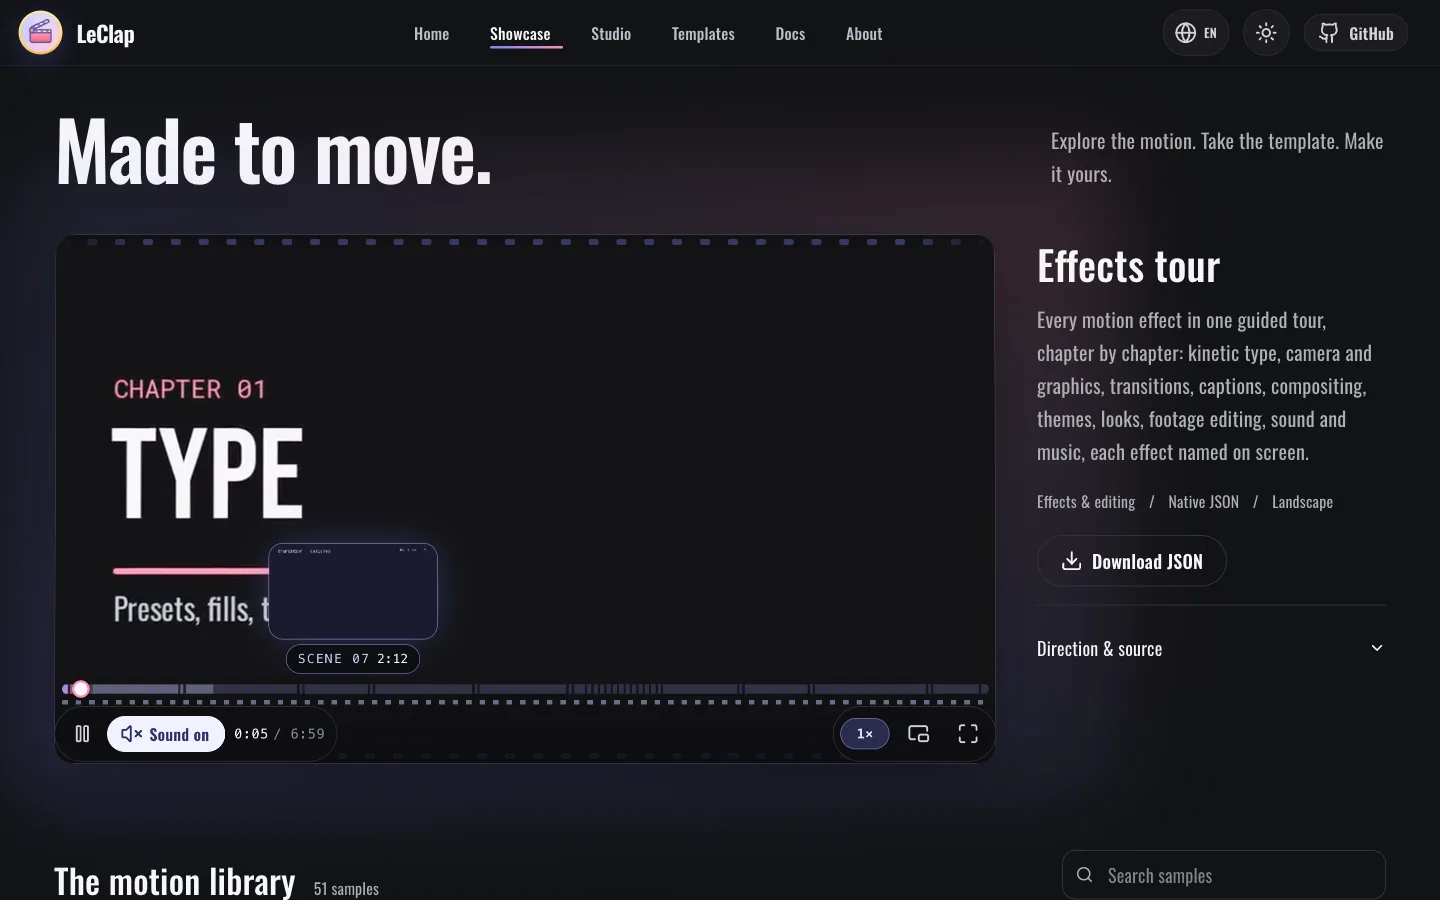
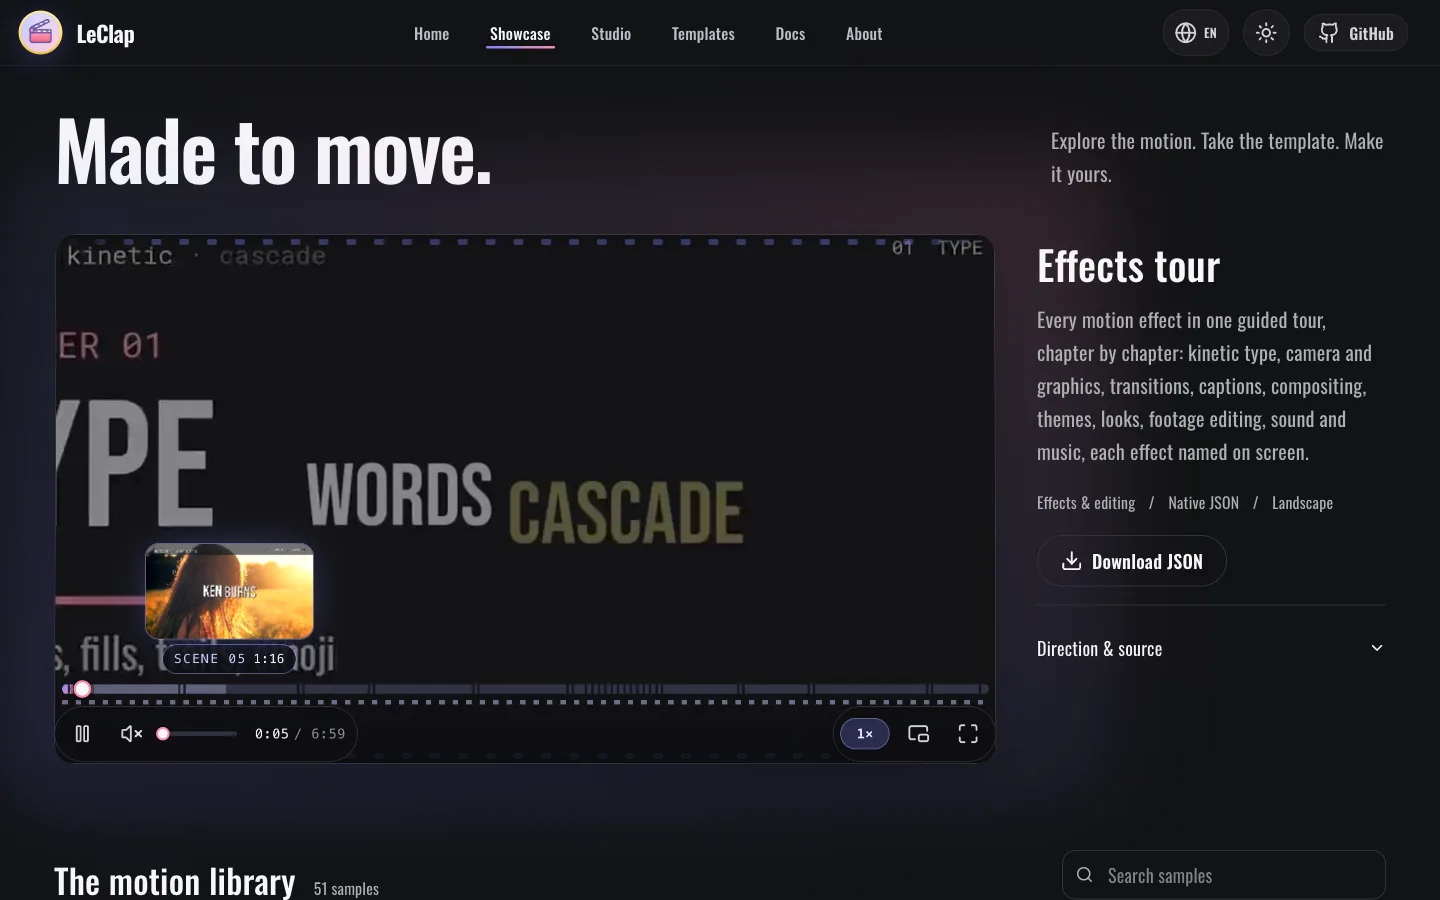
fix(web): show the real frame in the scrub preview and keep the controls under the pointer

Changed region(s): [[0.0312, 0.3733, 0.5312, 0.84], [0.0312, 0.2489, 0.6875, 0.3111], [0.7812, 0.28, 0.8125, 0.3111]]

diff --git a/apps/leclap-web/src/presentation/components/player/use-frame-preview.ts b/apps/leclap-web/src/presentation/components/player/use-frame-preview.ts
@@ -1,36 +1,56 @@
-import { useEffect, useRef, type RefObject } from 'react';
+import { useEffect, useRef, useState, type RefObject } from 'react';
 import { quantizeTime } from './timeline.logic';
 
 /** How finely the preview follows the pointer, in seconds. */
 const STEP = 0.5;
 
-// A muted, offscreen copy of the video to seek for previews; `onSeeked` paints each frame it lands on.
-const createProbe = (source: string, onSeeked: () => void, onError: () => void): HTMLVideoElement => {
+// A source on another origin is fetched with CORS, so the frames it paints never taint the canvas; the site's own
+// files and a local render (blob:) need nothing.
+const crossOrigin = (source: string): boolean => {
+  if (source.startsWith('blob:') || source.startsWith('data:')) return false;
+
+  return new URL(source, globalThis.location.href).origin !== globalThis.location.origin;
+};
+
+interface ProbeEvents {
+  onReady: () => void;
+  onSeeked: () => void;
+  onError: () => void;
+}
+
+// A muted, offscreen copy of the video to seek for previews.
+const createProbe = (source: string, events: ProbeEvents): HTMLVideoElement => {
   const probe = document.createElement('video');
+
+  if (crossOrigin(source)) probe.crossOrigin = 'anonymous';
 
   probe.muted = true;
   probe.playsInline = true;
   probe.preload = 'auto';
+  probe.onloadedmetadata = events.onReady;
+  probe.onseeked = events.onSeeked;
+  probe.onerror = events.onError;
   probe.src = source;
-  probe.onseeked = onSeeked;
-  probe.onerror = onError;
 
   return probe;
 };
 
 /**
  * Frames from the video under the seek bar's pointer, drawn into a small canvas. A second, muted copy of the video
- * (created on the first hover, never in the page) seeks to the hovered time, a half-second step at a time, and each
- * frame it lands on is painted into `canvasRef`. One seek runs at a time; a newer request waits for it and replaces
- * any older one, so a fast sweep never queues dozens. It reads the playing element's own source, so it works for a
- * local render as well as a public video.
+ * (created on the first hover, never in the page) seeks to the hovered time, a half-second step at a time, and once
+ * `seeked` fires the frame it landed on is painted into `canvasRef`. Seeks are throttled: one runs at a time, and a
+ * newer request waits for it and replaces any older one, so a fast scrub never queues dozens; a request made before
+ * the copy has its metadata waits for it (a seek then would never report back). `painted` is the step on the canvas,
+ * so the preview can shimmer until the hovered frame arrives. It reads the playing element's own source, so it
+ * works for a local render as well as a public video.
  */
 export function useFramePreview(videoRef: RefObject<HTMLVideoElement | null>) {
   const canvasRef = useRef<HTMLCanvasElement>(null);
   const probeRef = useRef<HTMLVideoElement | null>(null);
   const busy = useRef(false);
+  const target = useRef(-1);
   const pending = useRef<number | null>(null);
-  const last = useRef(-1);
+  const [painted, setPainted] = useState(-1);
 
   useEffect(
     () => () => {
@@ -52,6 +72,7 @@ export function useFramePreview(videoRef: RefObject<HTMLVideoElement | null>) {
     if (!probe || !canvas || probe.readyState < 2) return;
 
     canvas.getContext('2d')?.drawImage(probe, 0, 0, canvas.width, canvas.height);
+    setPainted(target.current);
   };
 
   const seek = (time: number) => {
@@ -59,32 +80,39 @@ export function useFramePreview(videoRef: RefObject<HTMLVideoElement | null>) {
 
     if (!probe) return;
 
-    if (busy.current) {
+    if (busy.current || probe.readyState < 1) {
       pending.current = time;
 
       return;
     }
 
     busy.current = true;
+    target.current = time;
     probe.currentTime = time;
   };
 
-  const settle = () => {
-    busy.current = false;
-    paint();
-
-    const next = pending.current;
+  const next = () => {
+    const queued = pending.current;
 
     pending.current = null;
 
-    if (next !== null) seek(next);
+    if (queued !== null) seek(queued);
   };
 
   const probeFor = (source: string) => {
     if (probeRef.current?.src === source) return;
 
-    probeRef.current = createProbe(source, settle, () => {
-      busy.current = false;
+    busy.current = false;
+    probeRef.current = createProbe(source, {
+      onReady: next,
+      onSeeked: () => {
+        busy.current = false;
+        paint();
+        next();
+      },
+      onError: () => {
+        busy.current = false;
+      },
     });
   };
 
@@ -92,16 +120,16 @@ export function useFramePreview(videoRef: RefObject<HTMLVideoElement | null>) {
     const source = videoRef.current?.currentSrc;
     const step = quantizeTime(time, STEP);
 
-    if (!source || step === last.current) {
-      paint();
+    if (!source || step === target.current || step === pending.current) return;
 
-      return;
-    }
-
-    last.current = step;
     probeFor(source);
     seek(step);
   };
 
-  return { canvasRef, request };
+  return {
+    canvasRef,
+    request,
+    /** Whether the canvas holds the frame for `time` yet. */
+    shows: (time: number) => quantizeTime(time, STEP) === painted,
+  };
 }

diff --git a/apps/leclap-web/src/presentation/components/player/player-timeline.tsx b/apps/leclap-web/src/presentation/components/player/player-timeline.tsx
@@ -46,12 +46,15 @@ function FramePreview({
   media,
   markers,
   canvasRef,
+  ready,
 }: {
   hover: Hover | null;
   width: number;
   media: MediaState;
   markers: readonly number[];
   canvasRef: RefObject<HTMLCanvasElement | null>;
+  /** The canvas holds the hovered frame; until then a brand shimmer runs over it. */
+  ready: boolean;
 }) {
   const { t } = useTranslation('player');
   const size = previewSize(media.width, media.height, PREVIEW_EDGE);
@@ -68,8 +71,16 @@ function FramePreview({
       )}
       style={{ left: x }}
     >
-      <span className="block overflow-hidden rounded-lg bg-player-ink shadow-[var(--shadow-glow)] ring-1 ring-brand-300/45 @max-[24rem]/player:hidden">
+      <span className="relative block overflow-hidden rounded-lg bg-player-ink shadow-[var(--shadow-glow)] ring-1 ring-brand-300/45 @max-[24rem]/player:hidden">
         <canvas ref={canvasRef} width={size.width} height={size.height} className="block" />
+        <span
+          className={cn(
+            'absolute inset-0 bg-linear-to-br from-brand-500/25 via-player-ink to-secondary-400/20 transition-opacity duration-200',
+            ready ? 'opacity-0' : 'opacity-100'
+          )}
+        >
+          <span className="player-shimmer absolute inset-0" />
+        </span>
       </span>
       <span className="inline-flex items-center gap-1.5 rounded-full bg-player-ink/90 px-2.5 py-1 font-mono text-[0.7rem] font-medium tabular-nums text-player-fg ring-1 ring-brand-400/50">
         {markers.length > 0 && (
@@ -168,7 +179,14 @@ export function PlayerTimeline({
         aria-valuetext={t('position', { current: now, total })}
         className="block size-3.5 scale-75 rounded-full border-2 border-secondary-400 bg-player-fg shadow-[0_0_0_3px_color-mix(in_oklch,var(--color-player-ink)_40%,transparent)] transition-transform duration-150 ease-[var(--ease-out-expo)] group-hover/seek:scale-110 focus-visible:scale-110 focus-visible:outline-none focus-visible:ring-4 focus-visible:ring-brand-400/60"
       />
-      <FramePreview hover={hover} width={width} media={media} markers={markers} canvasRef={preview.canvasRef} />
+      <FramePreview
+        hover={hover}
+        width={width}
+        media={media}
+        markers={markers}
+        canvasRef={preview.canvasRef}
+        ready={hover !== null && preview.shows(hover.time)}
+      />
     </SliderPrimitive.Root>
   );
 }

diff --git a/apps/leclap-web/src/presentation/components/player/use-player-chrome.ts b/apps/leclap-web/src/presentation/components/player/use-player-chrome.ts
@@ -9,6 +9,7 @@ interface ChromeInput {
   blocked: boolean;
   menuOpen: boolean;
   scrubbing: boolean;
+  onControls: boolean;
 }
 
 /**
@@ -16,7 +17,7 @@ interface ChromeInput {
  * the frame), and come back on any pointer move, touch or keyboard focus. A menu, a drag on the seek bar, loading
  * or an error keep them up.
  */
-export function usePlayerChrome({ playing, blocked, menuOpen, scrubbing }: ChromeInput) {
+export function usePlayerChrome({ playing, blocked, menuOpen, scrubbing, onControls }: ChromeInput) {
   const [idle, setIdle] = useState(true);
   const [keyboardFocus, setKeyboardFocus] = useState(false);
   const timer = useRef<ReturnType<typeof setTimeout> | null>(null);
@@ -53,7 +54,7 @@ export function usePlayerChrome({ playing, blocked, menuOpen, scrubbing }: Chrom
   };
 
   return {
-    shown: controlsShown({ playing, idle, keyboardFocus, menuOpen, scrubbing, blocked }),
+    shown: controlsShown({ playing, idle, keyboardFocus, menuOpen, scrubbing, blocked, onControls }),
     wake,
     rest,
     onFocus,
@@ -134,12 +135,14 @@ export function usePlayerUi({
 }) {
   const [menuOpen, setMenuOpen] = useState(false);
   const [scrubbing, setScrubbing] = useState(false);
+  const [onControls, setOnControls] = useState(false);
   const [clap, setClap] = useState(0);
   const chrome = usePlayerChrome({
     playing: !media.paused,
     blocked: media.waiting || media.failed,
     menuOpen,
     scrubbing,
+    onControls,
   });
   const toggle = () => {
     if (media.paused && !media.failed) setClap((count) => count + 1);
@@ -152,7 +155,7 @@ export function usePlayerUi({
   };
   const frame = usePlayerFrame({ title, chrome, fullscreen: fullscreen.active, onKey });
 
-  return { ...frame, chrome, onKey, toggle, clap, setMenuOpen, setScrubbing };
+  return { ...frame, chrome, onKey, toggle, clap, setMenuOpen, setScrubbing, setOnControls };
 }
 
 export type PlayerUi = ReturnType<typeof usePlayerUi>;

diff --git a/apps/leclap-web/src/presentation/components/player/player-chrome.tsx b/apps/leclap-web/src/presentation/components/player/player-chrome.tsx
@@ -46,6 +46,8 @@ export interface TransportBarProps {
   /** Where menus render: the frame while it is fullscreen. */
   portal?: HTMLElement | null;
   onMenuOpenChange: (open: boolean) => void;
+  /** A mouse rests on the bar, or left it. */
+  onHoverChange?: (hovering: boolean) => void;
   /** When the time readout gives way: a fuller bar (the films' sound hint, captions) sheds it on a wider frame. */
   timeClassName?: string;
 }
@@ -57,6 +59,7 @@ export function PlayerTransportBar(props: TransportBarProps) {
     <PlayerBar
       label={props.label}
       className={props.className}
+      onHoverChange={props.onHoverChange}
       seek={
         <PlayerTimeline
           media={media}
@@ -169,9 +172,7 @@ export function PlayerOverlays({
 
   return (
     <>
-      {(poster || fullscreen) && (
-        <PlayerCover media={media} title={title} meta={meta} fullscreen={fullscreen} />
-      )}
+      {(poster || fullscreen) && <PlayerCover media={media} title={title} meta={meta} fullscreen={fullscreen} />}
       {waitingForVisitor && media.paused && ready && <PlayerCenterButton label={playLabel} onToggle={onToggle} />}
       <PlayerMoments clap={clap} floating={floating} />
       <PlayerStatus media={media} labels={statusLabels} onRetry={onRetry} />

diff --git a/apps/leclap-web/src/presentation/components/player/player-controls.tsx b/apps/leclap-web/src/presentation/components/player/player-controls.tsx
@@ -322,15 +322,26 @@ export function PlayerBar({
   start,
   end,
   className,
+  onHoverChange,
 }: {
   label: string;
   seek?: ReactNode;
   start: ReactNode;
   end: ReactNode;
   className?: string;
+  /** A mouse rests on the bar, or left it: the controls stay up meanwhile. */
+  onHoverChange?: (hovering: boolean) => void;
 }) {
   return (
-    <div role="group" aria-label={label} className={cn('player-bar flex flex-col gap-1 px-2.5 pb-2', className)}>
+    <div
+      role="group"
+      aria-label={label}
+      className={cn('player-bar flex flex-col gap-1 px-2.5 pb-2', className)}
+      onPointerEnter={(event) => {
+        if (event.pointerType === 'mouse') onHoverChange?.(true);
+      }}
+      onPointerLeave={() => onHoverChange?.(false)}
+    >
       {seek && <div className="px-1.5">{seek}</div>}
       <div className="flex items-center justify-between gap-1.5">
         <div className={cn(CAPSULE, 'min-w-0')}>{start}</div>

diff --git a/apps/leclap-web/src/presentation/components/player/player.logic.ts b/apps/leclap-web/src/presentation/components/player/player.logic.ts
@@ -186,13 +186,15 @@ export interface ChromeState {
   scrubbing: boolean;
   /** Loading or failed: the visitor needs to see what is going on. */
   blocked: boolean;
+  /** A mouse rests on the controls (reading the time, a scrub preview open). */
+  onControls?: boolean;
 }
 
 /** Whether the controls show: always, except over a playing film nobody is touching. */
 export function controlsShown(state: ChromeState): boolean {
   if (!state.playing || state.blocked) return true;
 
-  return !state.idle || state.keyboardFocus || state.menuOpen || state.scrubbing;
+  return !state.idle || state.keyboardFocus || state.menuOpen || state.scrubbing || state.onControls === true;
 }
 
 /** How long a playing film waits for the pointer before its controls fade. */

diff --git a/apps/leclap-web/src/presentation/components/player/player.logic.test.ts b/apps/leclap-web/src/presentation/components/player/player.logic.test.ts
@@ -209,6 +209,7 @@ describe('controlsShown', () => {
     menuOpen: false,
     scrubbing: false,
     blocked: false,
+    onControls: false,
   };
 
   it('hides the controls once a playing film has sat idle', () => {
@@ -224,6 +225,10 @@ describe('controlsShown', () => {
     expect(controlsShown({ ...playing, keyboardFocus: true })).toBe(true);
     expect(controlsShown({ ...playing, menuOpen: true })).toBe(true);
     expect(controlsShown({ ...playing, scrubbing: true })).toBe(true);
+  });
+
+  it('keeps them up while the pointer rests on them, a scrub preview open', () => {
+    expect(controlsShown({ ...playing, onControls: true })).toBe(true);
   });
 
   it('keeps them up while the film is loading or failed', () => {

diff --git a/apps/leclap-web/src/presentation/components/home/film-player.tsx b/apps/leclap-web/src/presentation/components/home/film-player.tsx
@@ -227,6 +227,7 @@ function FilmBar({
       fullscreen={{ active: fullscreen.active, onToggle: fullscreen.toggle }}
       portal={fullscreen.element}
       onMenuOpenChange={ui.setMenuOpen}
+      onHoverChange={ui.setOnControls}
       timeClassName={captions ? '@max-[26rem]/player:hidden' : '@max-[21rem]/player:hidden'}
     />
   );

diff --git a/apps/leclap-web/src/presentation/components/player/video-player.tsx b/apps/leclap-web/src/presentation/components/player/video-player.tsx
@@ -169,6 +169,7 @@ export function VideoPlayer(props: VideoPlayerProps) {
         fullscreen={{ active: fullscreen.active, onToggle: fullscreen.toggle }}
         portal={fullscreen.element}
         onMenuOpenChange={ui.setMenuOpen}
+        onHoverChange={ui.setOnControls}
       />
     </div>
   );
